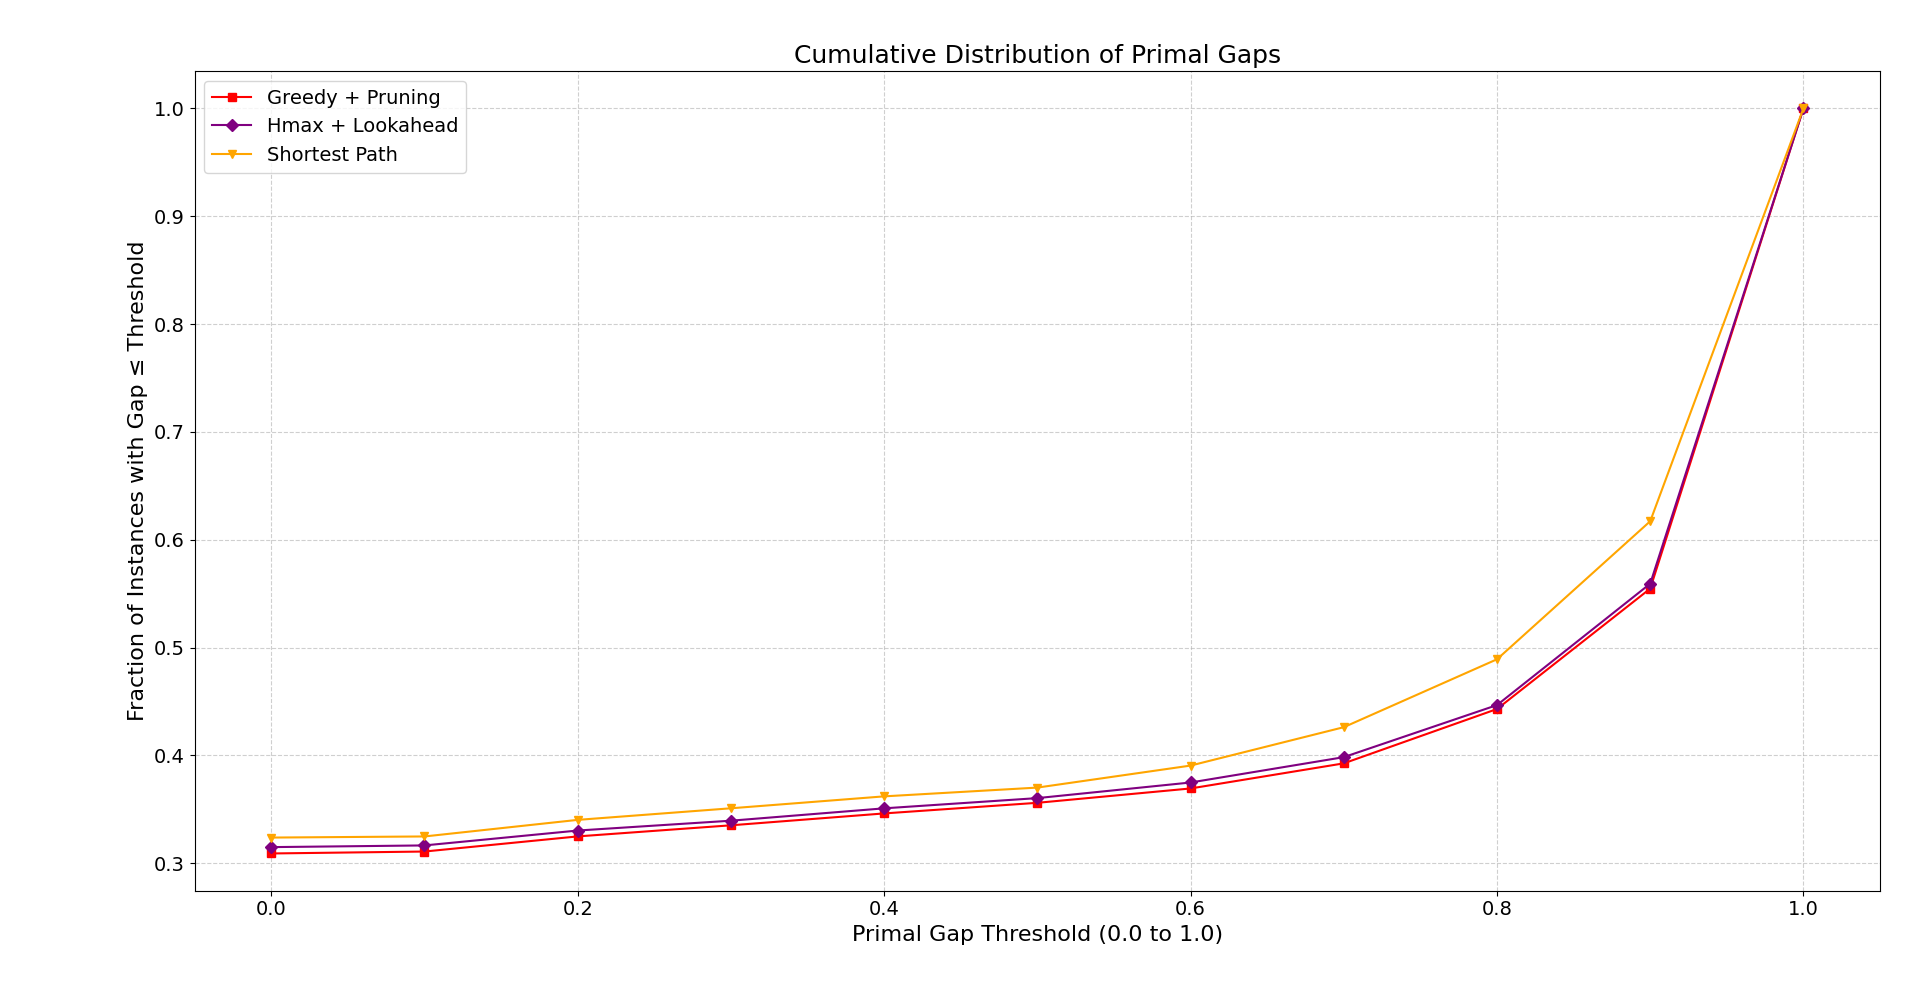
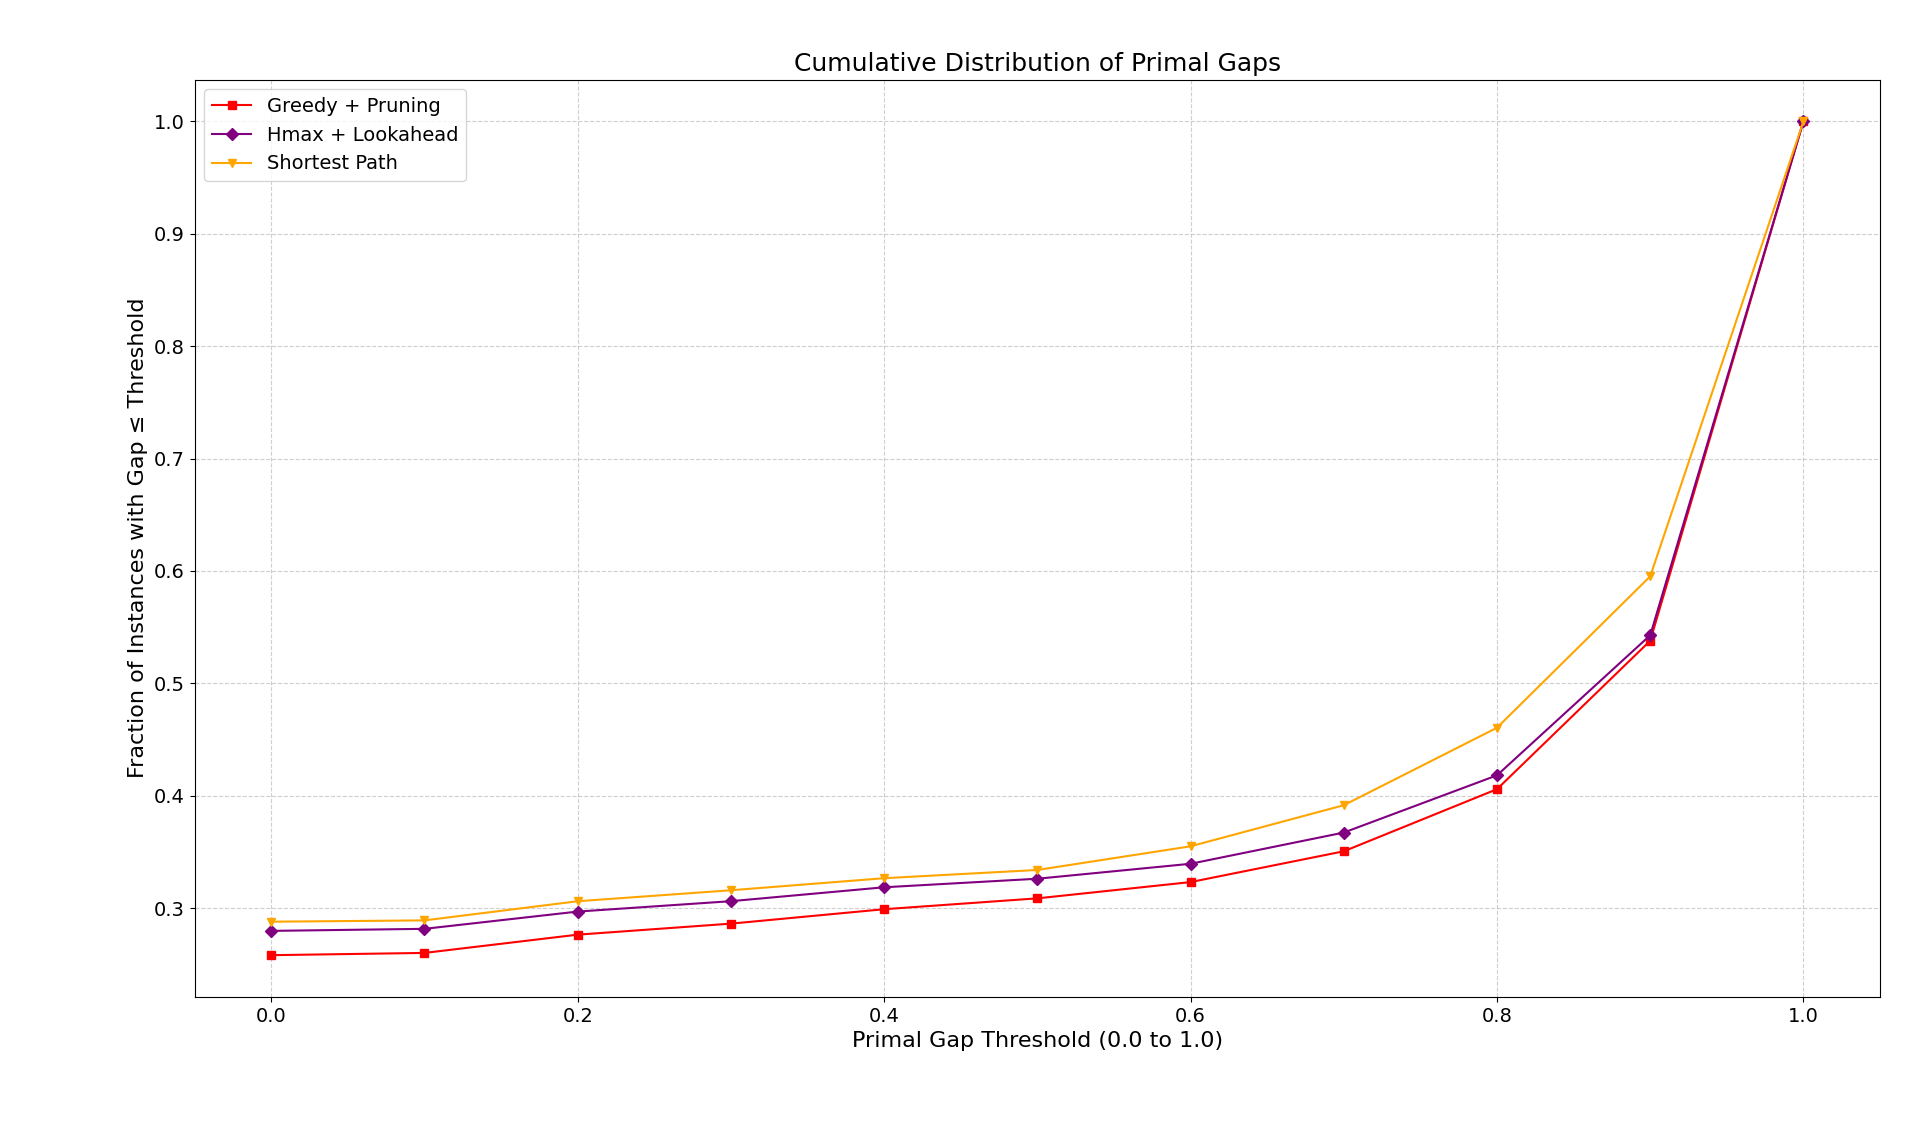
update plots with set_var results

diff --git a/thesis/chapters/results.tex b/thesis/chapters/results.tex
@@ -22,11 +22,11 @@ the number of instances it was able to solve within the time limit.
 		\hline
 		\textbf{Heuristic} & \textbf{Not found per timelimit} \\
 		\hline
-		Random             & 1123                             \\
-		Greedy             & 1076                             \\
-		Greedy + Pruning   & 1714                             \\
-		Hmax + Lookahead   & 9199                             \\
-		Shortest Path      & 851                              \\
+		Random             & 1363                             \\
+		Greedy             & 1328                             \\
+		Greedy + Pruning   & 1993                             \\
+		Hmax + Lookahead   & 9903                             \\
+		Shortest Path      & 1042                             \\
 		\hline
 	\end{tabular}
 	\caption{Number of instances not solved within the time limit (out of 31,040 total instances).}
@@ -54,10 +54,10 @@ Figure \ref{fig:rgps} presents the cumulative distribution plot for the evaluate
 \end{figure}
 
 For instance, to better interpret the plot, consider the Greedy strategy: the point on its curve corresponding to
-a primal gap threshold of 60\% is close to 20\%. This indicates that it achieves a solution with a primal gap less than
-or equal to 60\% in approximately 20\% of the problem instances.
+a primal gap threshold of 80\% is close to 20\%. This indicates that it achieves a solution with a primal gap less than
+or equal to 80\% in approximately 20\% of the problem instances.
 Conversely, the Shortest Path strategy found the best known solution (i.e., a primal gap of 0\%) in approximately
-25\% of the instances.
+22\% of the instances.
 Now that the plot has been properly explained, it is possible to identify the most effective heuristic.
 The curve that remains above all the others represents the best-performing strategy, as it indicates that the corresponding
 algorithm consistently found solutions within the primal gap thresholds for a larger number of instances.
@@ -106,8 +106,7 @@ is the best-performing algorithm overall—both in terms of solution quality and
 Additionally, the performance of Hmax + Lookahead, which surpasses that of Greedy + Pruning, confirms that pruning combined
 with Max Heuristic can be an effective strategy when paired with a lookahead mechanism.
 Although lookahead remains a slow algorithm, these results suggest that the revised version of the Max Heuristic|enhanced
-with a pruning mechanism|has the potential to produce high-quality solutions if used within a more powerful search strategy
-like \textsc{A*}.
+with a pruning mechanism|has the potential to produce high-quality solutions.
 
 \section{Different Versions of Backward Propagation}
 As explained in Section \ref{sec:shortestpath}, the core idea behind the algorithm is to back-propagate the estimated cost
